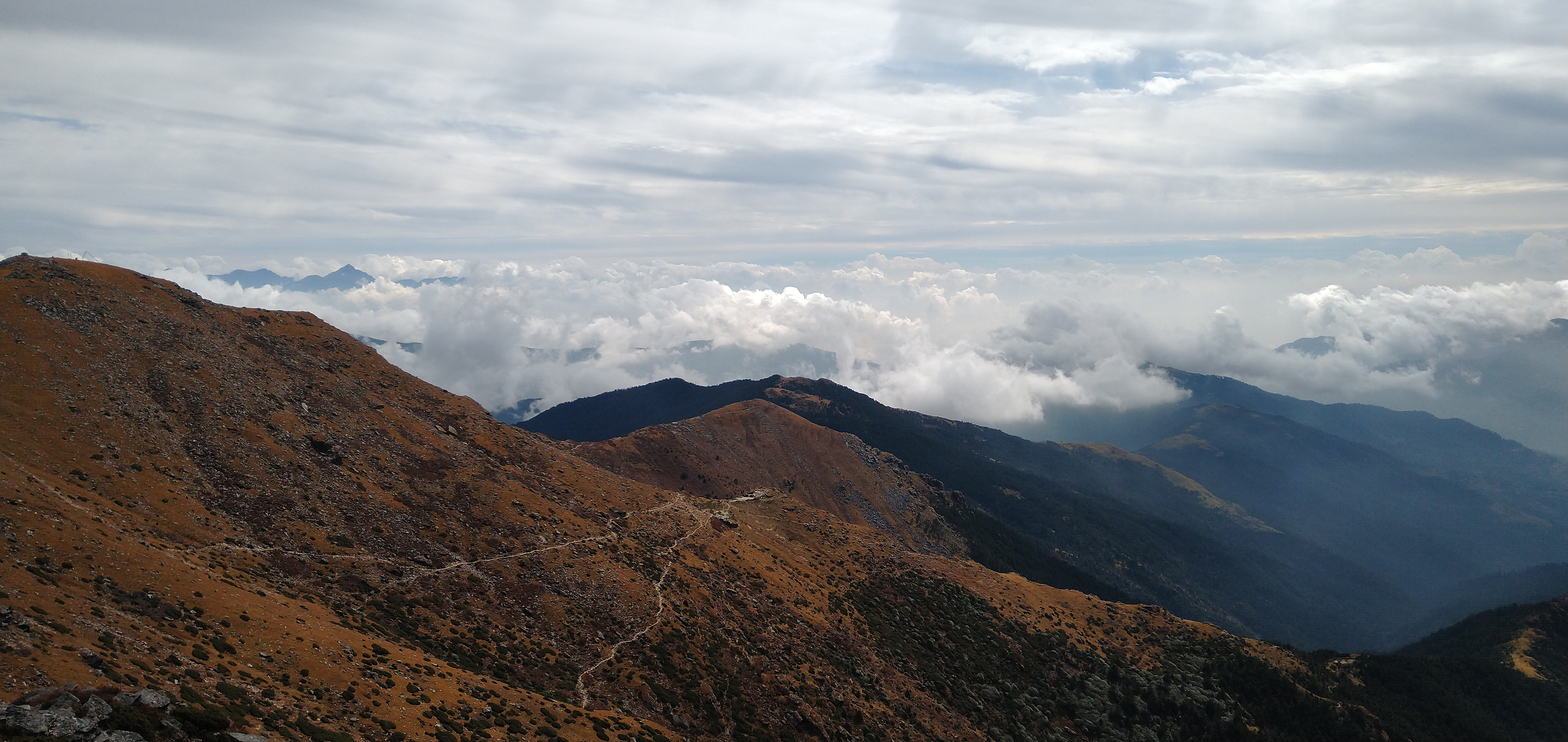
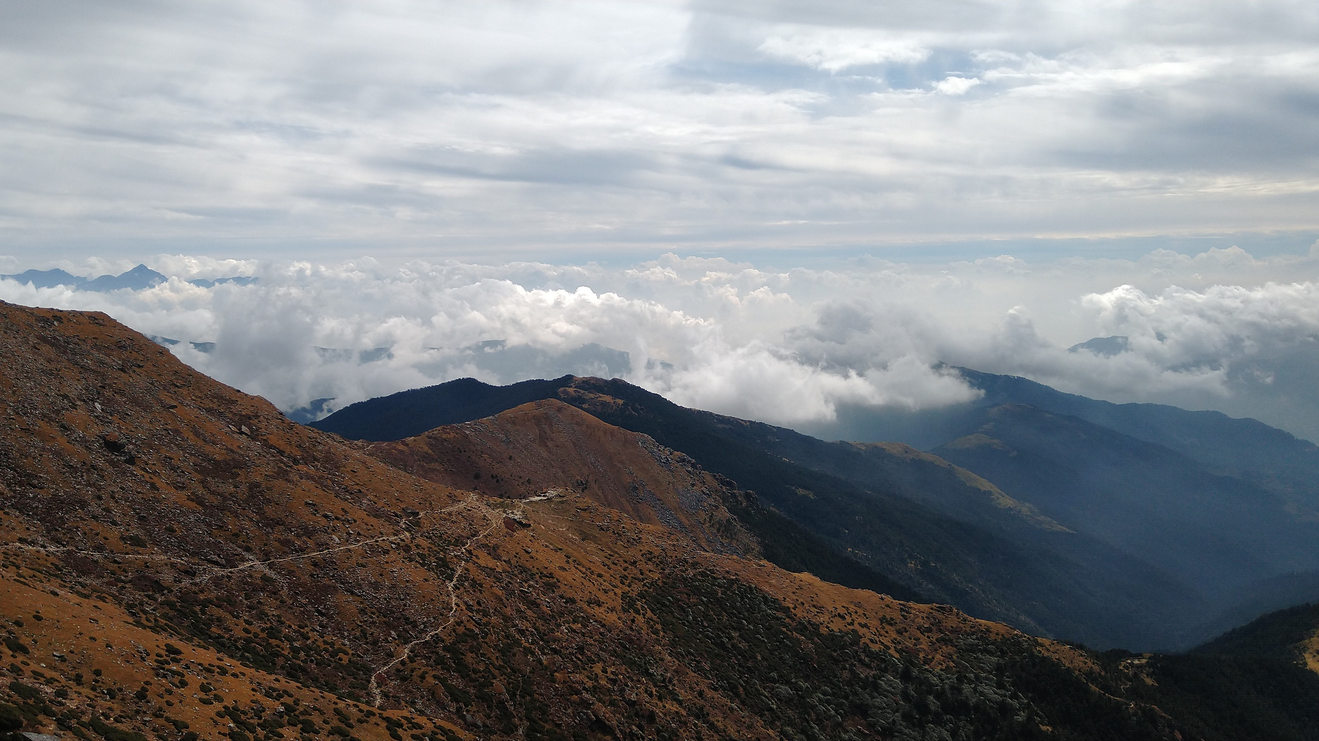
Carousel look changed
Resized pictuers and changed overall look of carousel. Made some changes to text

diff --git a/style.css b/style.css
@@ -2,6 +2,20 @@ body {
     background-color: rgb(19, 60, 73);
 }
 
+h1 {
+    font-family: Calibri;
+    color: linen;
+}
+h2 {
+    font-family: Calibri;
+    color: linen;
+}
+p {
+    font-family: Calibri;
+    color: white;
+}
+
+
 /* banner settings */
 #links-banner {
     display: flex;
@@ -24,26 +38,14 @@ body {
     max-height: 60px;
 }
 
-h1 {
-    font-family: Calibri;
-    color: linen;
-}
-h2 {
-    font-family: Calibri;
-    color: linen;
-}
-p {
-    font-family: Calibri;
-    color: black;
-    font-family: monospace;
-}
 
 /*--------IMAGE CAROUSEL--------*/
 /* carousel settings */
 .carousel-wrapper {
     overflow: hidden;
-    width: 90%;
+    width: 100%;
     box-sizing: border-box;
+    background-color: rgb(3, 38, 49);
 }
 .carousel {
     transform-style: preserve-3d;
@@ -54,7 +56,6 @@ p {
     top: 0;
     width: 100%;
     margin: auto;
-    padding: 1rem 4rem;
     z-index: 100;
     transition: transform .3s, opacity .3s, z-index .3s;
 }
@@ -81,13 +82,12 @@ p {
     position: absolute;
     top: 50%;
     width: 3rem;
-    height: 3rem;
-    background-color: #FFF;
+    height: 100%;
+    background-color: black;
+    opacity: 40%;
     transform: translateY(-50%);
-    border-radius: 50%;
     cursor: pointer;
     z-index: 1001; /* infront of everything */
-    border: 2px solid black;
 }
 .carousel_button--prev {
     left: 0;
@@ -100,10 +100,12 @@ p {
     content: " ";
     position: absolute;
     width: 10px;
+    height: 10px;
     top: 50%;
     left: 54%;
-    border-right: 2px solid black;
-    border-bottom: 2px solid black;
+    border-right: 2px solid white;
+    border-bottom: 2px solid white;
+    opacity: 100%;
     transform: translate(-50%, -50%) rotate(135deg);
 }
 .carousel_button--next::after {

diff --git a/index.html b/index.html
@@ -29,10 +29,12 @@
     </div>
 
     <div>
-        <h2>Image Carousel</h2>
-        <p>Set up image carousel showing hobbies and adventuers in the last year</p>
+        
 
         <div class="carousel-wrapper">
+            <h2>Pictuers From Travel</h2>
+            <p>In the last year I've been lucky enough to go traveleing in Asia. These are a fiew of the pictuers I took</p>
+
             <div class="carousel">
 
                 <img class = "carousel_photo initial" src="imgs-and-docs\IMG_20191024_100150990.jpg" alt="#">
